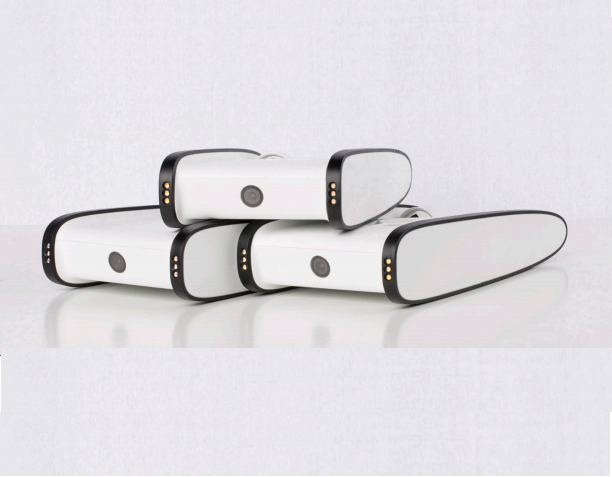
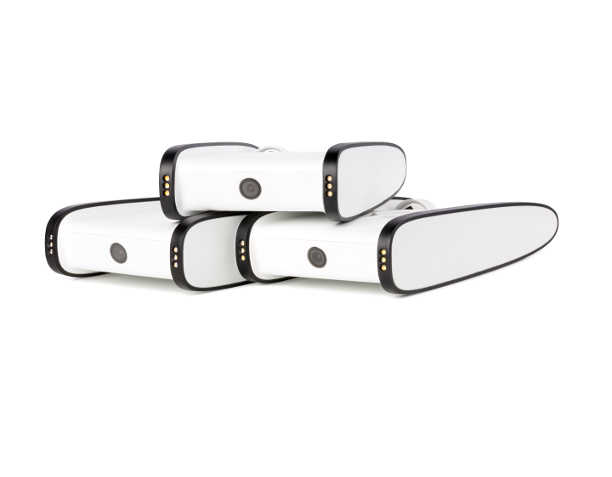
New header

diff --git a/app/index.html b/app/index.html
@@ -30,7 +30,7 @@ layout: default
       </table>
     </div>
    
-    <div class="hero trident-and-diver">
+    <div class="hero light trident-on-white">
       <table class="hero-container">
         <tbody>
           <tr>
@@ -39,11 +39,12 @@ layout: default
                 <div class="row h-100">
                   <div class="col-sm-8 h-100">
                     <div class="title">
-                      Fly through the underwater world.
+                      Sleek design,<br />
+                      peak performance.
                     </div>
                     <div class="call-to-action text-center text-md-left">
-                      <button class="btn btn-md-lg btn-primary btn-spot-cta px-4 font-weight-bold" type="submit">BUY NOW</button>
                       <button type="button" class="btn btn-md-lg btn-link font-weight-bold btn-link-cta">Learn more</button>
+                      <a href="./products/trident/buy-now" class="btn btn-md-lg btn-primary btn-spot-cta px-4 font-weight-bold">BUY NOW</a>
                     </div>
                   </div>
                 </div>
@@ -90,12 +91,12 @@ layout: default
             
       <div class="col-xs-12 col-md-4 mt-4 mt-sm-0 p-0">
         <a href="#" class="feature-item dark prevent-flicker hover-primary-gradient hover-img-scale">
-          <img src="./images/content/enterpise-solutions.png" alt="Options for Comercial Operators">
+          <img src="./images/content/enterpise-solutions.png" alt="Options for Commercial Operators">
 
           <div class="text-wrap no-gradieant">
             <div class="text">
               <h3 class="title">
-                Comercial Operators
+                Commercial Operators
               </h3>
               <div class="description">
                 A fleet of Tridents can transform your business.

diff --git a/app/styles/_hero.scss b/app/styles/_hero.scss
@@ -71,7 +71,15 @@ section .hero {
 
     &.light {
         .title-container {
-            color: black;
+            color: $Secondary_Grey;
+        }
+
+        .btn-link-cta {
+            color: $Secondary_Grey;
+
+            &:hover {
+                color: darken($Primary_Grey, 80%);
+            }
         }
     }
 
@@ -80,6 +88,19 @@ section .hero {
         background-position: 68%;
         @include media-breakpoint-up(md) {
             background-position: 50%;
+        }
+    }
+    &.trident-on-white {
+        background-image: url(../images/hero/trident.jpg);
+        background-position: 68%;
+
+        background-position: 102% bottom;
+        background-size: 52rem;
+        background-repeat: no-repeat;        
+
+        @include media-breakpoint-up(md) {
+            background-position: 68%;
+            background-size: inherit;
         }
     }
 

diff --git a/app/styles/_headerHeights.scss b/app/styles/_headerHeights.scss
@@ -6,7 +6,7 @@ $heightNexus6P: 773px;
 
 
 @mixin header-height() {
-        height: 36rem !important;
+        height: 44rem !important;
 
         @media screen and (max-height: #{$heightNexus5x-iPhone6P}) { 
             height: 29rem !important;

diff --git a/app/styles/_bootstrap_custom.scss b/app/styles/_bootstrap_custom.scss
@@ -7,6 +7,7 @@ $Primary_White: #ffffff;
 $Secondary_Blue: #3381ab;
 $Tertiary_Blue: #2d6584;
 $Primary_Grey: #4a4a4a;
+$Secondary_Grey: lighten($Primary_Grey, 20%);
 $Secondary_White: #f5f5f5;
 
 $backgroundGrey: #e0e0e0;
